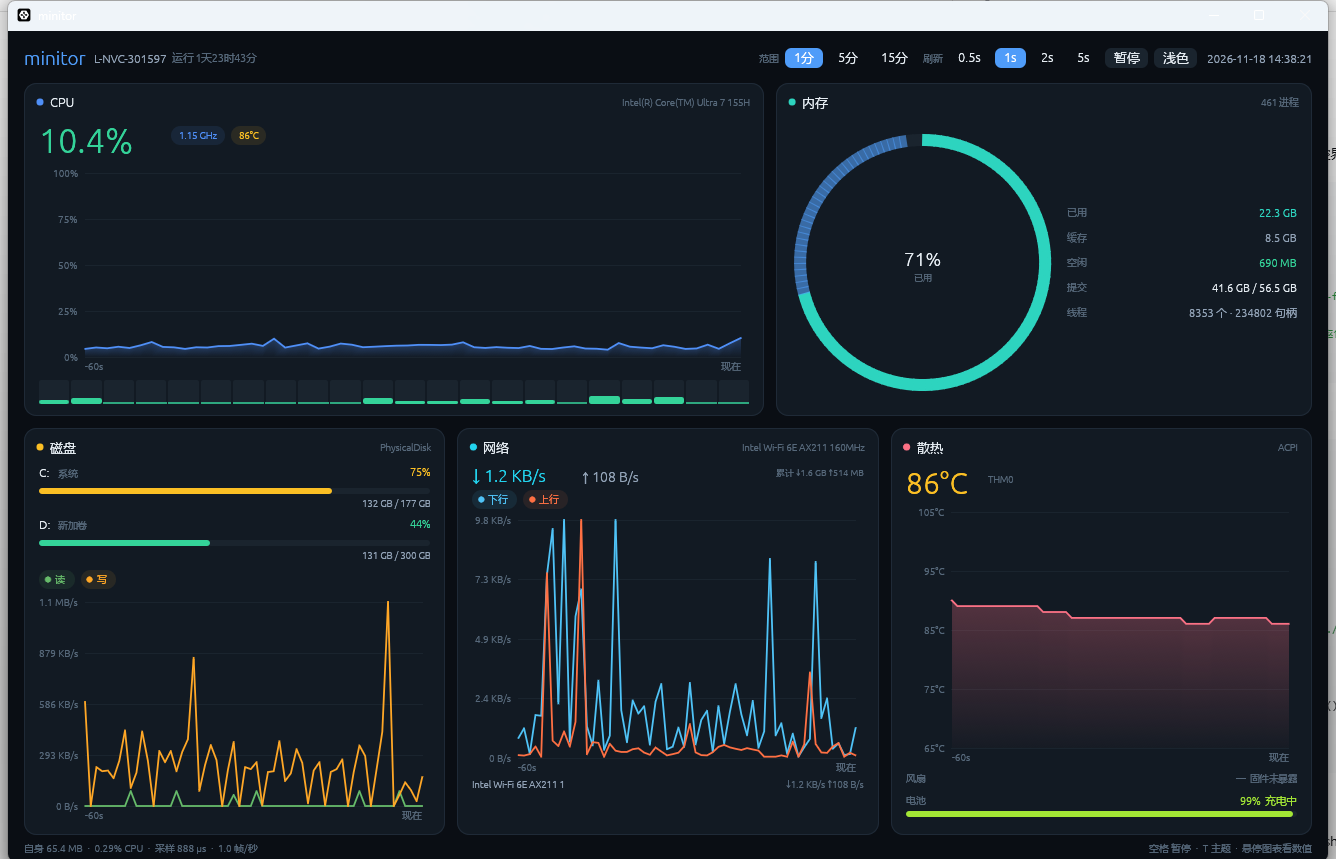
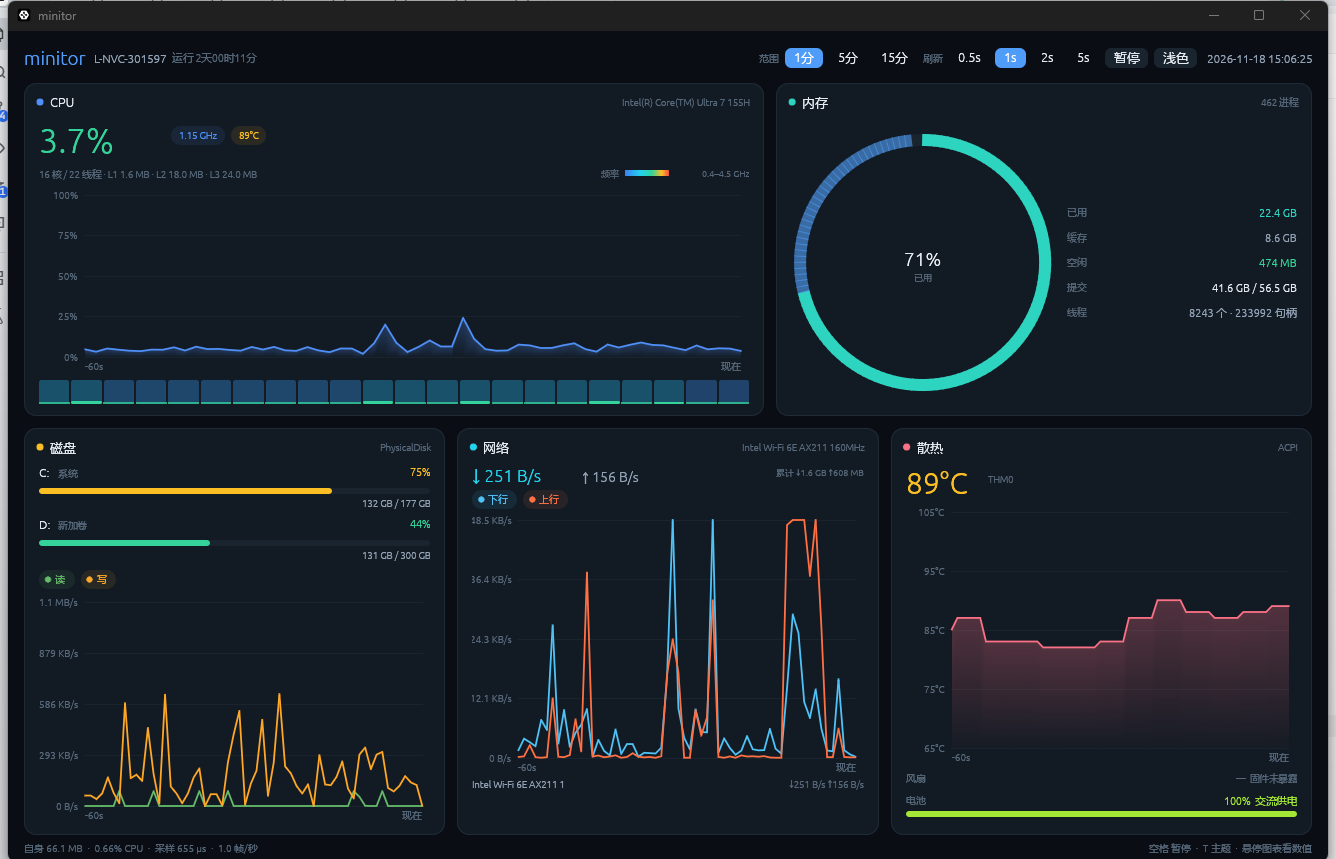
核心柱背景按频率着色，CPU 卡片补充拓扑与缓存
- 每个逻辑核的柱背景改为按当前频率着色（蓝=接近空闲，红=接近睿频），柱高仍表示利用率
- CPU 卡片内加频率色标：基频的 0.3–3.2 倍映射到 0.4–4.5 GHz
- 新增 sys::cpu::caches()，从 GetLogicalProcessorInformation 汇总 L1/L2/L3
- 卡片显示 16 核 / 22 线程 · L1 1.6 MB · L2 18.0 MB · L3 24.0 MB，与任务管理器一致
- 去掉虚拟化显示：Hyper-V 下 PF_VIRT_FIRMWARE_ENABLED 被虚拟化屏蔽，会与任务管理器矛盾
- 悬停提示保留每核频率；重拍文档截图

diff --git a/src/gui/app.rs b/src/gui/app.rs
@@ -340,9 +340,67 @@ fn cpu_card(
         );
     }
 
+    // Topology and caches, the same set Task Manager lists.
+    let cores = snap.cpu.physical.unwrap_or(snap.cpu.logical);
+    let info = format!(
+        "{} 核 / {} 线程 · L1 {} · L2 {} · L3 {}",
+        cores,
+        snap.cpu.logical,
+        format::bytes(snap.cpu.cache_l1),
+        format::bytes(snap.cpu.cache_l2),
+        format::bytes(snap.cpu.cache_l3),
+    );
+    let legend_width = if content.width() > 460.0 { 150.0 } else { 0.0 };
+    let text_width = ((content.width() - legend_width) / 5.8).max(16.0) as usize;
+    text(
+        &painter,
+        pos2(content.left(), content.top() + 48.0),
+        Align2::LEFT_TOP,
+        format::truncate(&info, text_width),
+        9.5,
+        theme.faint,
+    );
+
+    if legend_width > 0.0 {
+        // Colour key for the core bars: blue = near idle, red = near turbo.
+        let base = snap.cpu.base_mhz.max(800) as f32;
+        let bar_width = 44.0;
+        let label = format!("{:.1}–{:.1} GHz", base * 0.3 / 1000.0, base * 3.2 / 1000.0);
+        let label_left = content.right() - 74.0;
+        let bar_left = label_left - bar_width - 6.0;
+        text(
+            &painter,
+            pos2(bar_left - 6.0, content.top() + 48.0),
+            Align2::RIGHT_TOP,
+            "频率",
+            9.0,
+            theme.faint,
+        );
+        for step in 0..bar_width as i32 {
+            let t = step as f32 / bar_width;
+            let mhz = (base * (0.3 + t * 2.9)) as u32;
+            painter.rect_filled(
+                Rect::from_min_size(
+                    pos2(bar_left + step as f32, content.top() + 49.0),
+                    vec2(1.0, 6.0),
+                ),
+                CornerRadius::same(0),
+                theme.frequency(mhz, snap.cpu.base_mhz),
+            );
+        }
+        text(
+            &painter,
+            pos2(content.right(), content.top() + 48.0),
+            Align2::RIGHT_TOP,
+            &label,
+            9.0,
+            theme.faint,
+        );
+    }
+
     let chart_rect = Rect::from_min_max(
-        pos2(content.left(), content.top() + 46.0),
-        pos2(content.right(), (content.bottom() - 30.0).max(content.top() + 80.0)),
+        pos2(content.left(), content.top() + 68.0),
+        pos2(content.right(), (content.bottom() - 30.0).max(content.top() + 90.0)),
     );
     let series = [Series {
         values: history.cpu.slice(),
@@ -370,7 +428,7 @@ fn cpu_card(
         pos2(content.left(), content.bottom() - 24.0),
         pos2(content.right(), content.bottom()),
     );
-    chart::core_bars(ui, core_rect, &snap.cpu.per_core, &snap.cpu.core_mhz, theme, Id::unique("cpu-cores"));
+    chart::core_bars(ui, core_rect, &snap.cpu.per_core, &snap.cpu.core_mhz, snap.cpu.base_mhz, theme, Id::unique("cpu-cores"));
 }
 
 fn memory_card(ui: &mut Ui, rect: Rect, theme: &Theme, snap: &Snapshot) {

diff --git a/src/gui/theme.rs b/src/gui/theme.rs
@@ -113,6 +113,34 @@ impl Theme {
         }
     }
 
+    /// Colour ramp for a core's current clock: cool when idle, warm near turbo.
+    ///
+    /// The reference is the package base clock, so the same core reads blue at
+    /// 0.5× base and red at 3× base regardless of the machine.
+    pub fn frequency(&self, mhz: u32, base_mhz: u32) -> Color32 {
+        let base = base_mhz.max(800) as f32;
+        let ratio = (mhz as f32 / base).clamp(0.3, 3.2);
+        let t = ((ratio - 0.3) / 2.9).clamp(0.0, 1.0);
+        let stops: [(f32, Color32); 5] = if self.dark {
+            [
+                (0.0, rgb(59, 130, 246)),
+                (0.35, rgb(34, 211, 238)),
+                (0.60, rgb(52, 211, 153)),
+                (0.82, rgb(251, 191, 36)),
+                (1.0, rgb(239, 68, 68)),
+            ]
+        } else {
+            [
+                (0.0, rgb(37, 99, 235)),
+                (0.35, rgb(8, 145, 178)),
+                (0.60, rgb(5, 150, 105)),
+                (0.82, rgb(217, 119, 6)),
+                (1.0, rgb(220, 38, 38)),
+            ]
+        };
+        ramp(t, &stops)
+    }
+
     pub fn alpha(color: Color32, alpha: u8) -> Color32 {
         Color32::from_rgba_unmultiplied(color.r(), color.g(), color.b(), alpha)
     }
@@ -148,4 +176,22 @@ impl Theme {
         visuals.override_text_color = None;
         ctx.set_visuals(visuals);
     }
+}
+/// Piecewise-linear colour ramp over `stops` (sorted by position).
+fn ramp(t: f32, stops: &[(f32, Color32)]) -> Color32 {
+    let mut previous = stops[0];
+    for stop in stops {
+        if t <= stop.0 {
+            let span = (stop.0 - previous.0).max(0.0001);
+            let k = ((t - previous.0) / span).clamp(0.0, 1.0);
+            let mix = |a: u8, b: u8| (a as f32 + (b as f32 - a as f32) * k).round() as u8;
+            return Color32::from_rgb(
+                mix(previous.1.r(), stop.1.r()),
+                mix(previous.1.g(), stop.1.g()),
+                mix(previous.1.b(), stop.1.b()),
+            );
+        }
+        previous = *stop;
+    }
+    stops[stops.len() - 1].1
 }

diff --git a/src/metrics.rs b/src/metrics.rs
@@ -128,6 +128,11 @@ pub struct Cpu {
     pub brand: String,
     pub logical: usize,
     pub physical: Option<usize>,
+    /// L1 / L2 / L3 totals in bytes.
+    pub cache_l1: u64,
+    pub cache_l2: u64,
+    pub cache_l3: u64,
+
     pub total: f32,
     pub per_core: Vec<f32>,
     /// Current clock of each logical processor, in MHz.
@@ -221,6 +226,8 @@ impl Sampler {
         let logical = sys::cpu::logical_processors();
         let physical = sys::cpu::physical_cores(logical);
         let brand = sys::cpu::brand();
+        let (cache_l1, cache_l2, cache_l3) = sys::cpu::caches().unwrap_or((0, 0, 0));
+
 
         let mut sampler = Self {
             per_cpu: PerCpuBuffer::new(),
@@ -250,6 +257,10 @@ impl Sampler {
                         brand,
                         logical,
                         physical,
+                        cache_l1,
+                        cache_l2,
+                        cache_l3,
+
                         ..Cpu::default()
                     },
                     ..Snapshot::default()
@@ -377,20 +388,19 @@ impl Sampler {
             self.prev_self = Some((ticks, Instant::now()));
         }
 
+        // Static topology comes from the template; only the live numbers change.
+        let mut cpu = self.model.snap.cpu.clone();
+        cpu.total = total_usage;
+        cpu.per_core = per_core;
+        cpu.core_mhz = core_mhz;
+        cpu.mhz = mhz;
+        cpu.base_mhz = base_mhz;
+
         let snapshot = Snapshot {
             date,
             time,
             uptime: sys::host::uptime_seconds(),
-            cpu: Cpu {
-                brand: self.model.snap.cpu.brand.clone(),
-                logical: self.model.snap.cpu.logical,
-                physical: self.model.snap.cpu.physical,
-                total: total_usage,
-                per_core,
-                core_mhz,
-                mhz,
-                base_mhz,
-            },
+            cpu,
             memory,
             volumes: self.volumes.clone(),
             io_read,

diff --git a/src/sys/cpu.rs b/src/sys/cpu.rs
@@ -247,6 +247,48 @@ pub fn physical_cores(logical: usize) -> Option<usize> {
     Some(cores)
 }
 
+/// Total L1 / L2 / L3 cache in bytes, summed over every reported cache.
+///
+/// `GetLogicalProcessorInformation` reports one entry per cache per core, so
+/// the totals match what Task Manager shows (L1 counts instruction + data).
+pub fn caches() -> Option<(u64, u64, u64)> {
+    let mut needed: u32 = 0;
+    unsafe { ffi::GetLogicalProcessorInformation(core::ptr::null_mut(), &mut needed) };
+    if needed == 0 {
+        return None;
+    }
+    let entry = core::mem::size_of::<ffi::SYSTEM_LOGICAL_PROCESSOR_INFORMATION>();
+    let mut buffer = vec![0u8; needed as usize + entry];
+    let mut written: u32 = buffer.len() as u32;
+    let ok = unsafe {
+        ffi::GetLogicalProcessorInformation(
+            buffer.as_mut_ptr() as *mut ffi::SYSTEM_LOGICAL_PROCESSOR_INFORMATION,
+            &mut written,
+        )
+    };
+    if failed(ok) || (written as usize) < entry {
+        return None;
+    }
+
+    let mut totals = [0u64; 4];
+    for index in 0..written as usize / entry {
+        let base = unsafe { buffer.as_ptr().add(index * entry) };
+        let relation = unsafe { read_i64(base, 8) as u32 };
+        if relation != ffi::RELATION_CACHE {
+            continue;
+        }
+        // CACHE_DESCRIPTOR: Level @16, Associativity @17, LineSize @18,
+        // CacheSize @20, Type @24.
+        let level = unsafe { *base.add(16) } as usize;
+        let size = unsafe { read_i64(base, 20) as u32 } as u64;
+        if (1..=3).contains(&level) {
+            totals[level] += size;
+        }
+    }
+    Some((totals[1], totals[2], totals[3]))
+}
+
+
 /// CPUID brand string (leaves 0x8000_0002..4), 48 UTF-8-safe bytes.
 pub fn brand() -> String {
     #[cfg(target_arch = "x86_64")]

diff --git a/src/gui/chart.rs b/src/gui/chart.rs
@@ -305,6 +305,7 @@ pub fn core_bars(
     rect: Rect,
     values: &[f32],
     frequencies: &[u32],
+    base_mhz: u32,
     theme: &Theme,
     id: Id,
 ) {
@@ -319,11 +320,13 @@ pub fn core_bars(
 
     for (index, value) in values.iter().enumerate() {
         let x = rect.left() + index as f32 * (width + gap);
-        painter.rect_filled(
-            Rect::from_min_size(pos2(x, rect.top()), vec2(width, rect.height())),
-            egui::CornerRadius::same(2),
-            theme.grid,
-        );
+        // Background = current clock (cool idle → warm turbo); bar height = load.
+        let cell = Rect::from_min_size(pos2(x, rect.top()), vec2(width, rect.height()));
+        let tint = match frequencies.get(index) {
+            Some(mhz) if *mhz > 0 => Theme::alpha(theme.frequency(*mhz, base_mhz), 88),
+            _ => theme.grid,
+        };
+        painter.rect_filled(cell, egui::CornerRadius::same(2), tint);
         let height = (value / 100.0).clamp(0.0, 1.0) * rect.height();
         let bar = Rect::from_min_size(
             pos2(x, rect.bottom() - height.max(1.5)),

diff --git a/src/sys/ffi.rs b/src/sys/ffi.rs
@@ -52,6 +52,7 @@ pub const SYSTEM_PROCESSOR_PERFORMANCE_INFORMATION: u32 = 8;
 
 // GetLogicalProcessorInformation relationships.
 pub const RELATION_PROCESSOR_CORE: DWORD = 0;
+pub const RELATION_CACHE: DWORD = 2;
 
 // MIB_IFROW.dwOperStatus
 pub const IF_OPER_STATUS_CONNECTED: DWORD = 4;

diff --git a/docs/一期优化-完成情况.md b/docs/一期优化-完成情况.md
@@ -56,6 +56,8 @@
 
 采集侧新增 `sys::cpu::frequencies()`：`CallNtPowerInformation(ProcessorInformation)` 返回的数组按逻辑处理器解析，拿到**每核当前 MHz**（此前只取平均值）。悬浮提示从"核心 N / 23%"升级为"核心 N / 使用率 / 当前频率"。
 
+> 后续补充：核心柱的**背景色改为按当前频率着色**（蓝→红），柱高仍表示负载；CPU 卡片同时显示核数/线程数与 L1/L2/L3 缓存（与本机任务管理器一致：1.6 / 18.0 / 24.0 MB）。
+
 > 修复记录：提示框原先用 `ui.painter_at(核心条矩形)` 绘制，painter 的裁剪域只有那 24 px 高的条带，提示一超出就被切掉（还会被下一张卡片盖住）。改为 egui 的 `Response::on_hover_ui_at_pointer`，提示作为 Tooltip 图层独立绘制，现在可以正常浮在卡片之上。图表提示同样换成了这套机制。
 
 ### 六 颜色与峰值（已完成）

diff --git a/README.md b/README.md
@@ -155,6 +155,8 @@ minitor-gui --lean                       # 不读温度与磁盘速率（同 TUI
 - 温度曲线按可视窗口**自适应 Y 轴**（40–70 °C 的窗口，夹在 20–105 °C），不再固定 30–100
 - 磁盘/网络曲线的 Y 轴按**可见窗口 P90 平滑缩放**，空闲时收缩、不贴天花板
 - 每核悬停提示包含**该核当前频率**（`CallNtPowerInformation` 逐处理器解析）
+- **每核柱背景按当前频率着色**（蓝=接近空闲，红=接近睿频），柱高仍表示负载；卡片里另有频率色标
+- CPU 卡片显示核数/线程数与 L1/L2/L3 缓存总量（与任务管理器一致）
 - 头部显示**开机时长**，与 TUI 一致
 
 交互：
